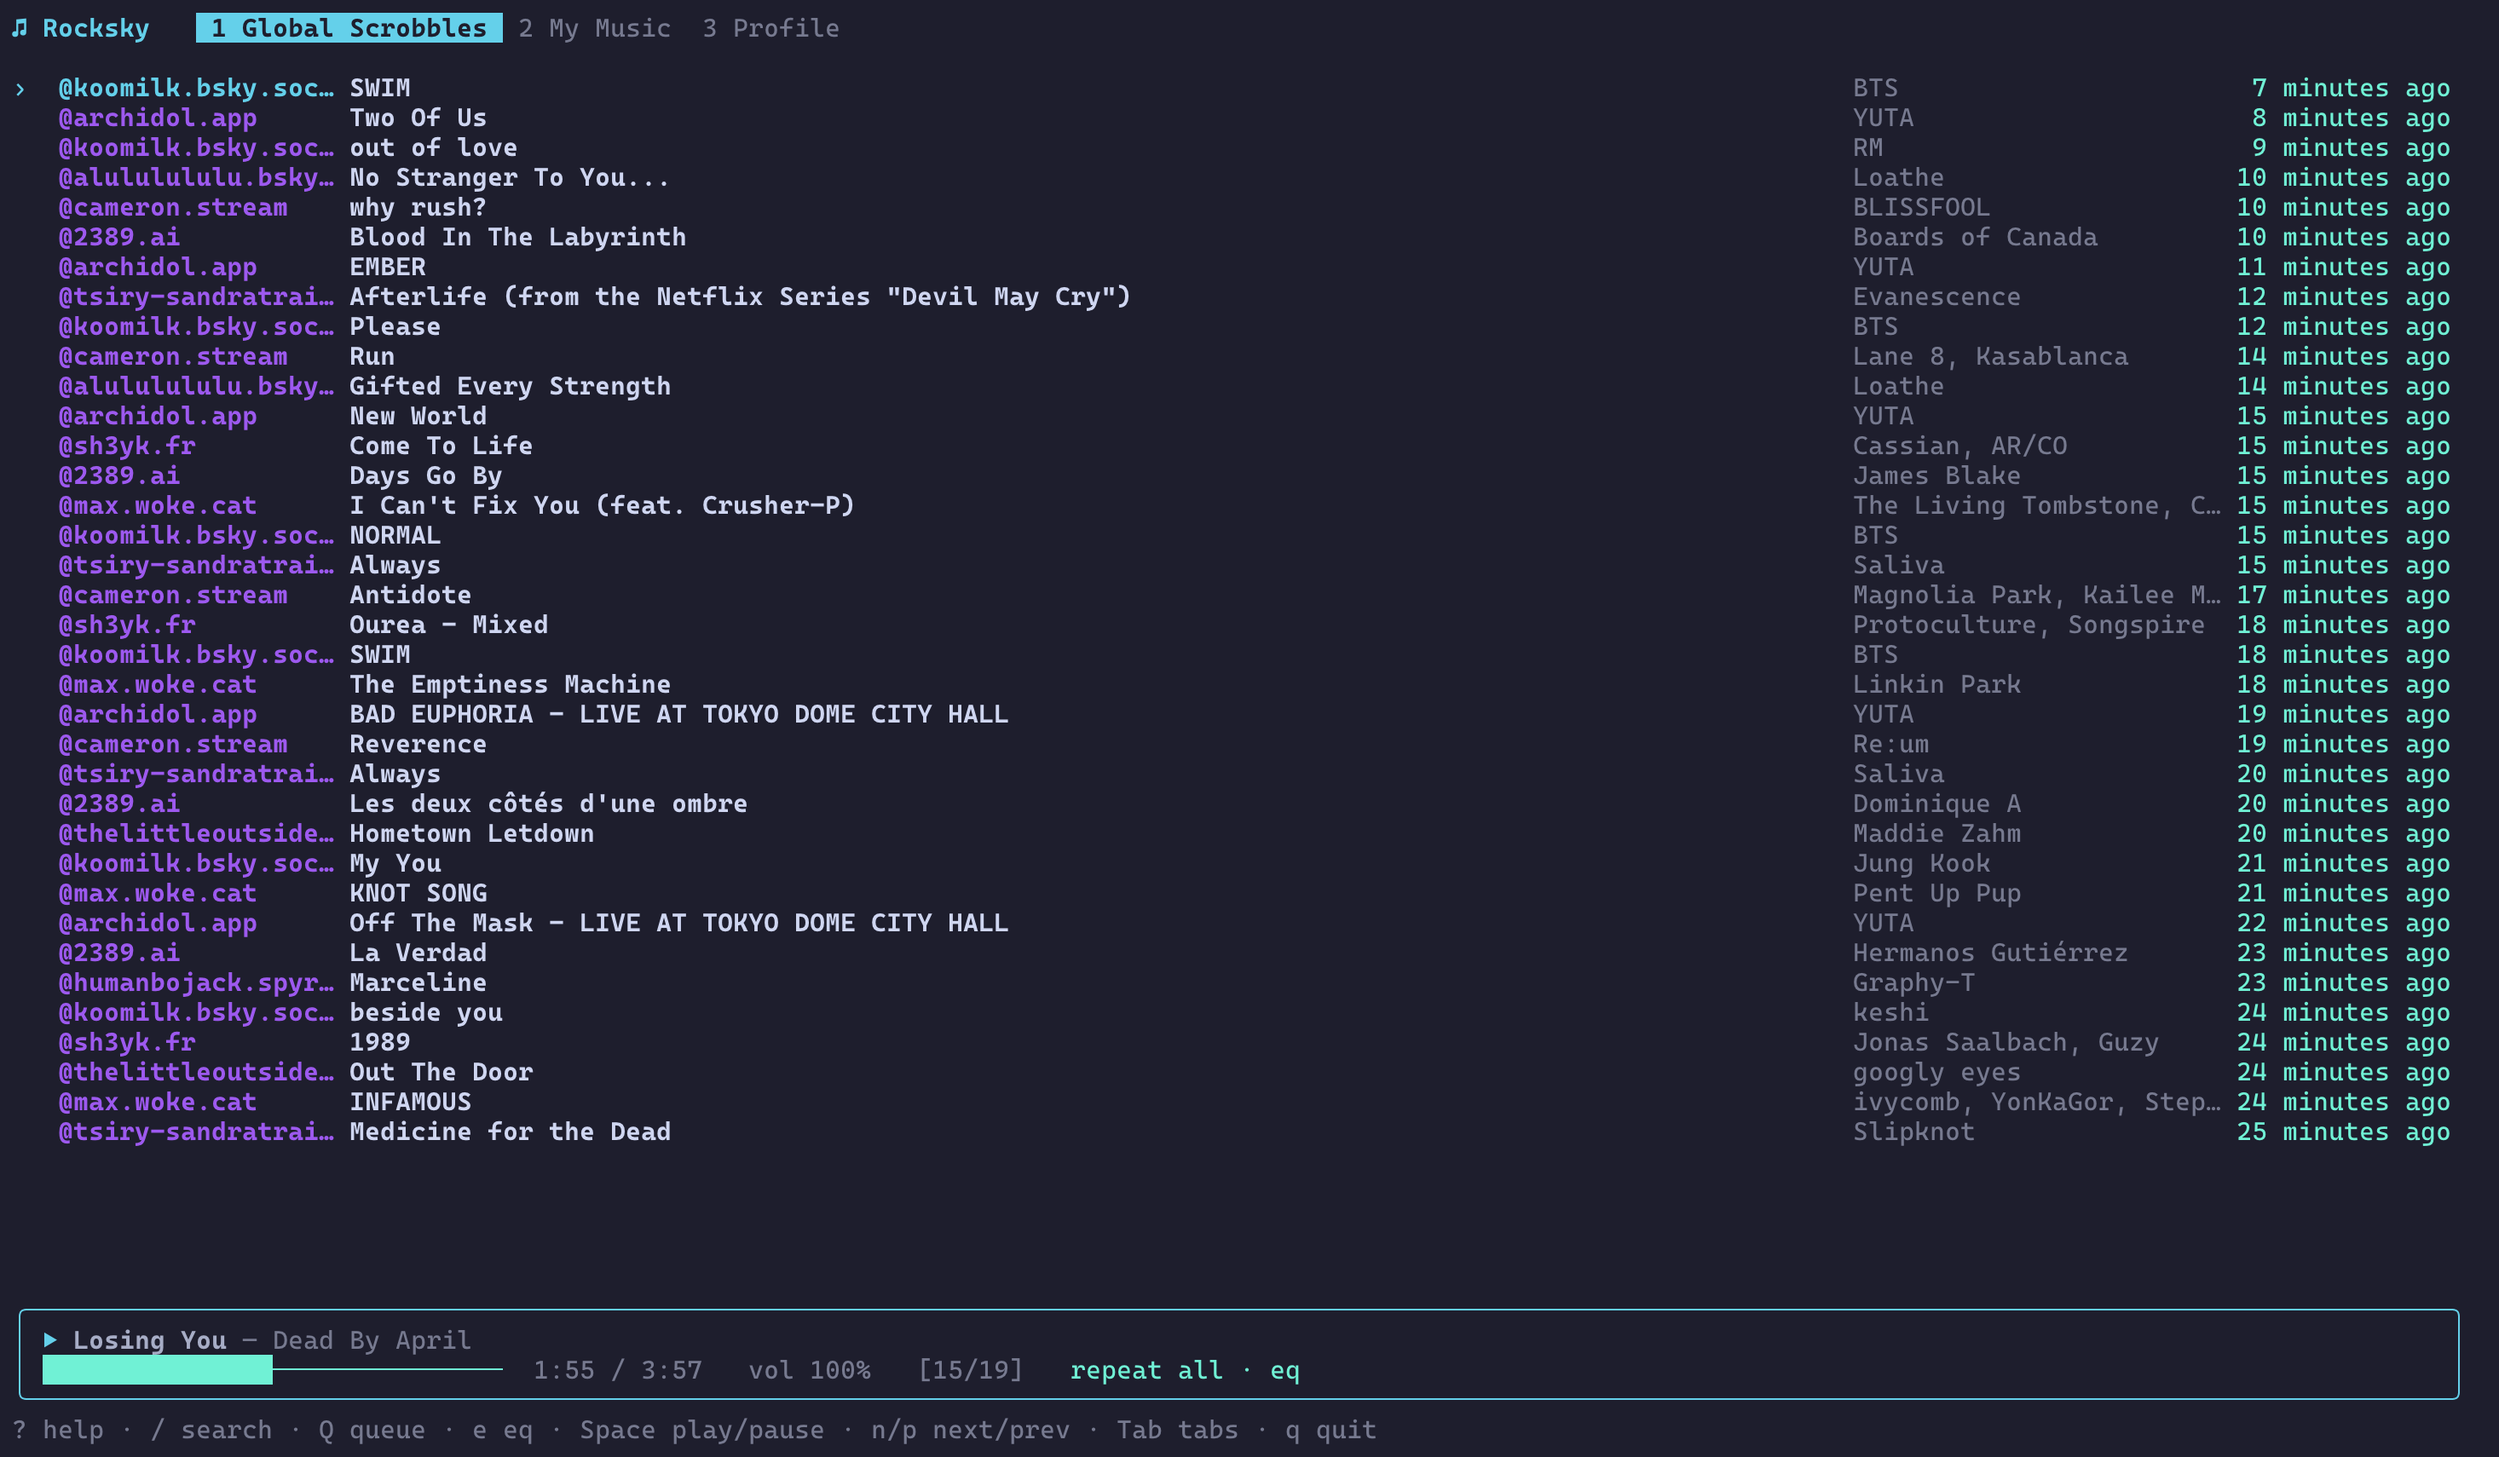
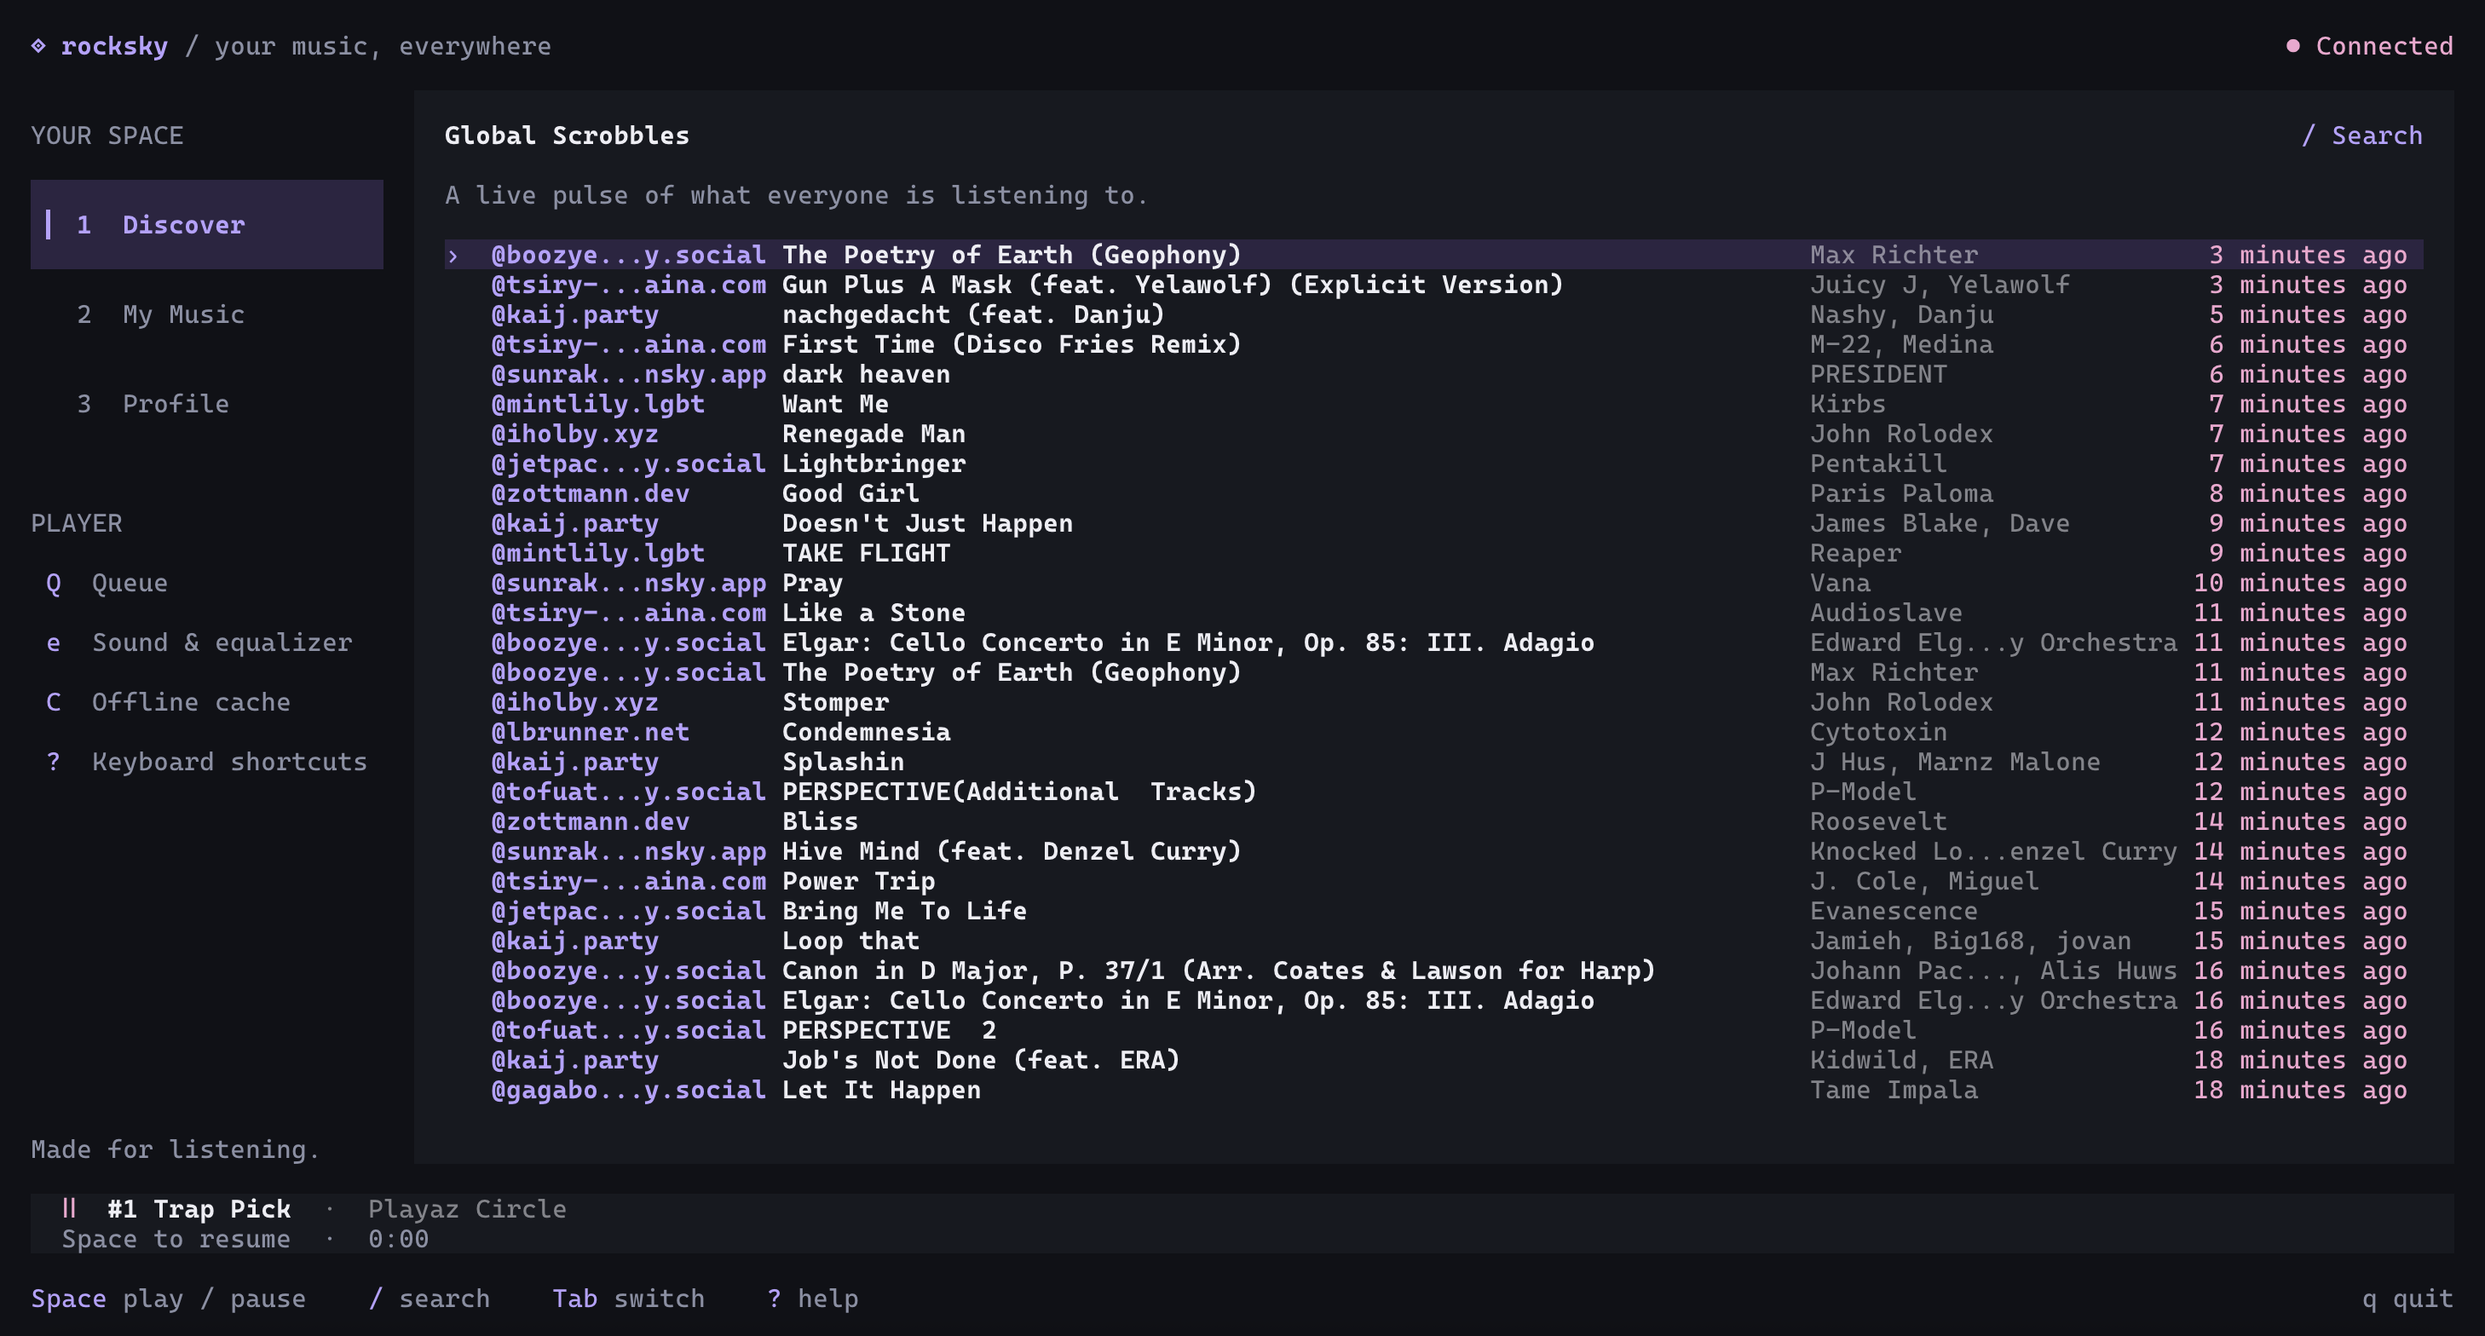
chore: bump CLI to 0.11.4 and update preview and proxy settings

diff --git a/purescript/cli/test/features.test.js b/purescript/cli/test/features.test.js
@@ -29,7 +29,7 @@ test('CLI exposes every command and nested integration without initializing stat
  for(const args of [['create','apikey'],['nfc','status'],['nfc','read'],['nfc','write'],['card','read'],['card','write'],['import'],['mcp'],['mpd'],['tui'],['upload']]) {
   const result=run(...args,'--help');assert.equal(result.status,0,result.stderr);assert.ok(result.stdout.includes('Usage: rocksky'));
  }
- assert.equal(run('--version').stdout.trim(),'0.11.3');
+ assert.equal(run('--version').stdout.trim(),'0.11.4');
  assert.notEqual(run('unknown-command').status,0);
  assert.notEqual(run('scrobble').status,0);
 });

diff --git a/apps/cli/README.md b/apps/cli/README.md
@@ -67,7 +67,7 @@ Use `NO_COLOR=1` to disable the pink installer banner.
 ```sh
 # Pin a release, choose the PureScript variant, or change the destination:
 curl -fsSL https://raw.githubusercontent.com/tsirysndr/rocksky/main/install.sh | \
-  sh -s -- --version 0.11.3 --variant purescript --bin-dir "$HOME/.local/bin"
+  sh -s -- --version 0.11.4 --variant purescript --bin-dir "$HOME/.local/bin"
 
 # Build locally from apps/cli:
 bun run build:binary
